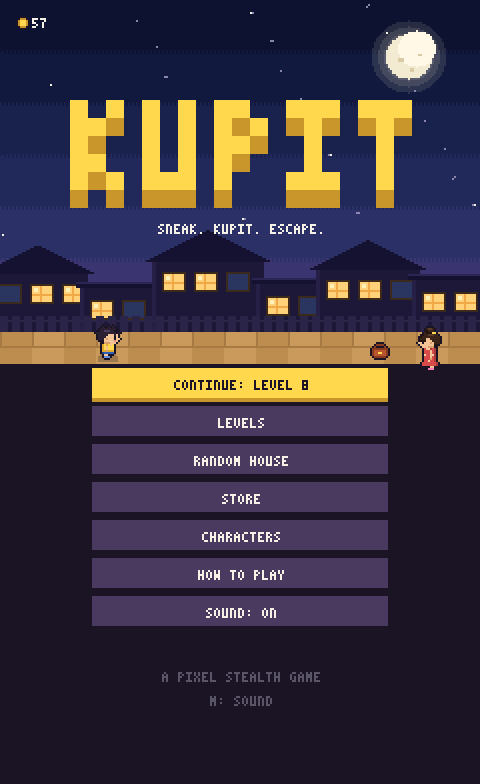
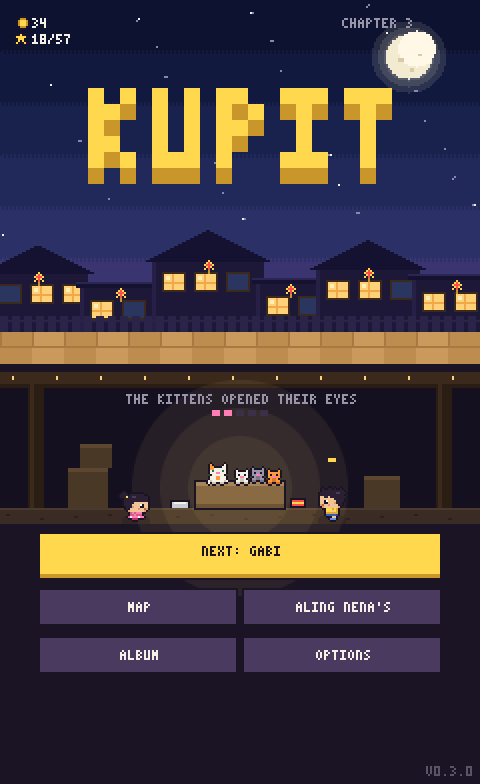
Docs for the arcade pass: README, STATUS, level format, fresh screenshots
- README: new screenshots from the current build (the hideout, the tutorial,
  night, a boss cut-in, the palengke, HABOL!'s hug, the who's-going card, the
  map, a close call); controls describe aimed throws; HINALA, Random House and
  star gifts removed; cut-ins described.
- STATUS: the arcade pass, and v0.3.0 marked as released.
- LEVEL_FORMAT: no "hinala" blocks; boss.intro documented.

diff --git a/README.md b/README.md
@@ -9,11 +9,11 @@ full of kittens, and only then do they see what every coin was for. All he ever 
 | | | |
 |---|---|---|
 | ![Title](docs/screenshots/01-title.png) | ![Sala, the first level](docs/screenshots/04-sala.png) | ![Gabi, a night level](docs/screenshots/05-gabi-night.png) |
-| Title | Sala: Mama and Lola's vision cones | Gabi: night lighting |
-| ![Boss: Mama sa Kusina](docs/screenshots/06-boss-mama.png) | ![Palengke, a big scrolling level](docs/screenshots/07-palengke.png) | ![Random House](docs/screenshots/08-random-house.png) |
-| Boss: Mama sa Kusina | Palengke (scrolling map) | Random House |
-| ![Choose your kid](docs/screenshots/03-characters.png) | ![Level select](docs/screenshots/02-levels.png) | ![Caught!](docs/screenshots/09-caught.png) |
-| Characters | Level select | Caught! |
+| The hideout (title) | Sala: the tutorial, Mama's vision cone | Gabi: night lighting |
+| ![Boss: Mama sa Kusina](docs/screenshots/06-boss-mama.png) | ![Palengke, a big scrolling level](docs/screenshots/07-palengke.png) | ![HABOL!](docs/screenshots/08-habol.png) |
+| Boss: Mama comes in on a cut-in | Palengke (scrolling map) | HABOL!: the hug at the end |
+| ![Who's going?](docs/screenshots/03-card.png) | ![The barangay map](docs/screenshots/02-levels.png) | ![Muntik na!](docs/screenshots/09-close-call.png) |
+| Who's going? | The barangay map | A close call |
 
 ## Play
 
@@ -24,14 +24,14 @@ npm start            # or: python -m http.server 8080
 ```
 
 Open http://localhost:8080 (phone on same LAN works too). If 8080 is taken, `serve` picks another port and prints
-it. `?level=2` jumps to a level, `?daily` to today's Daily House.
+it. `?level=2` jumps to a level. On a tall phone the game fills the whole screen, with the buttons at the bottom.
 
 | Action | Keyboard | Touch |
 |---|---|---|
 | Move (sneak) | WASD / arrows | drag anywhere |
 | Run (loud!) | Shift | drag far |
-| Act: kupit (hold), hide, open/close door, switch, turn on TV/radio | E / Space | big button (its icon shows what it will do) |
-| Throw tsinelas / pandesal: hold to aim, let go to throw | Q | blue button |
+| Act: take coins (hold), hide, open/close a door, a lever, turn on the TV/radio | E / Space | big button (it says what it will do: TAKE, HIDE, OPEN...) |
+| Throw a tsinelas / pandesal where you point | Q, point with the mouse, click (or hold Q and let go: straight ahead) | hold the blue button, slide to the spot, let go (a tap throws straight ahead) |
 | Switch which item you throw | R / Tab | small dot next to it |
 | Character skill | F / X | green button |
 | Pause | P / Esc | pause button |
@@ -42,6 +42,8 @@ Collect the coin quota, then reach the exit.
 - **Adults** have vision cones. Fill their meter and they **chase** you (A* pathing). Break line of sight or hide, and
   they search, then go back. `?` over an adult means suspicious, `!` means chase. On big maps, arrows on the screen
   edge show who is onto you, and pings show noises heard off screen.
+- **Cut-ins**: a character's portrait slides in with a line at the big moments: whoever finds you on a close call,
+  a boss's entrance and each phase, the end of every level, the first TUMBA, and HABOL!'s hug with Tigre.
 - **Muntik na! (close calls)** You get 3 chances per level. When someone reaches you, they find you somewhere you
   shouldn't be (never with the coins: the family only finds out in the story's ending, the one real "HULI KA!").
   Jun drops a third of his coins, which go back where they came from, and you start again at the last safe spot (a
@@ -54,12 +56,6 @@ Collect the coin quota, then reach the exit.
   the quota the game says SAPAT NA ("that's enough"); anything past it is SOBRA. It still pays, but every extra coin
   in one go clinks louder and emptying a stash makes a hollow klak. The "take only what you need" star asks for
   exactly the quota.
-- **Hinala (the house remembers)**: the family's suspicion, 0 to 100, carried across the campaign. Only a level's first
-  clear moves it: sobra, emptied stashes, alarms, close calls and tattles raise it, a clean run lowers it, and putting
-  coins back (IBALIK) lowers it a lot. Each chapter has a floor, so suspicion always grows toward the storm. At its four
-  tiers the house changes (a purse moves, Mama counts it, people search longer, sleepers sleep lightly); the level
-  starts with "NEW IN THE HOUSE", the hideout shows Mama's mood, and the clear screen says what was noticed. They
-  suspect something, never Jun: they only find out in the ending. Rules and level format: `src/game/hinala.js`.
 - **Hide** in boxes, curtains and laundry baskets. An eye over you means someone watched you hide, so they'll find you.
 - **Secret alkansya**: every level hides one bonus stash off the main route.
 - **Bosses** each have a signature rule and finale. Lola's Siesta: a sleep meter that noise drains, then a finale
@@ -67,11 +63,6 @@ Collect the coin quota, then reach the exit.
   pandesal splits them. Ninang's Christmas party: guests are moving cover. Bagyo: the storm.
 - **Late levels** add the tanod (sweeping flashlight, whistle), tinderas (shout MAGNANAKAW!, stay by their stall)
   and a tricycle on a timed route.
-- **Random House**: a seeded generator builds a new multi-room house at difficulty 1–5. Mutators (BROWNOUT, WALANG
-  TSINELAS, BISITA) make it harder and pay more, and clearing them at level 3+ unlocks outfits. Payouts shrink with
-  each house cleared the same day. The **Daily House** is the same for everyone (it rolls over at midnight Manila
-  time). It is easier early in the week and hardest on Sunday, keeps a streak, and has a COPY RESULT share card.
-  During Pasko season it's a Noche Buena house.
 - **The hideout** is the home screen: the space under the house, with Mingming, her kittens and whoever is in on
   the secret. One big button continues the story; MAP opens the barangay map (levels as houses along a road,
   grouped into five chapters).
@@ -81,7 +72,7 @@ Collect the coin quota, then reach the exit.
   Only then do they see what every coin was for, and nobody scolds him. The epilogue level swaps KUPIT for
   **HINGI**: nobody to hide from, you walk up and ask. Three kittens trot after you there, and Tigre follows you
   on every level afterwards.
-- **Who's going?** Before every story level a card shows its stars, what changed in the house, and the crew: pick who
+- **Who's going?** Before every story level a card shows its stars and the crew: pick who
   goes (a level can suggest someone; every level can be finished as Jun). **Bing** also crawls under tables and beds
   (only someone right next to it sees her). **Kuya Ramil** talks the family out of one close call a level ("Ma,
   tinutulungan ko lang siya!"). **KASABWAT** (the old SAMPAYAN) sends Bing and Ramil in together: Z switches kids,
@@ -95,7 +86,7 @@ Collect the coin quota, then reach the exit.
   new trick rather than a bigger number. MEDYAS (socks: creaky boards stay quiet), PANYO (a handkerchief muffles one
   clasp or zipper a level), HOLEN (two marbles a level that roll on and lure, and dogs ignore), BAON (start with a
   tsinelas and a pandesal), BULSA (carry one more). Saves from before the change get back every coin they spent on
-  the old upgrades. Looks-only outfits and decor are there too; star milestones at 10/20/30/48 unlock more.
+  the old upgrades. Looks-only outfits and title-screen decor are sold there too (some are mini-game prizes).
   `node tools/economy.mjs` checks the prices against a careful and a greedy player.
 - **New rules in the story levels**: GATAS: a full bowl of milk must be carried out, and running spills it.
   IBALIK: Jun took too much, so you sneak the coins *back*. BAGYO: lightning, then thunder, and while it rolls
@@ -159,7 +150,7 @@ node tools/place-alkansya.mjs   # suggest secret alkansya spots (--write to add 
 - `src/entities` player, adults (Mama/Lola/Tita), targets
 - `src/render` palette, tiles, sprites (`sprites.js` draws the sheet, with code-drawn placeholders as a fallback)
 - `src/render/atlas.js` the sprite sheet; `tools/blender/` builds, renders and packs it ([docs/ART_PIPELINE.md](docs/ART_PIPELINE.md), [docs/ART_SPEC.md](docs/ART_SPEC.md))
-- `src/game/house.js` seeded Random House generator; `src/game/validate.js` level validator (both tested)
+- `src/game/validate.js` level validator (tested); `src/ui/cutin.js` the portrait cut-ins
 - `src/game/progression.js` characters, upgrades, `computeMods` (tested)
 - `src/game/world.js` all level rules (DOM-free, tested); `src/scenes/play.js` draws it
 - `src/world/sound.js` path-based noise (walls block, doors muffle); `src/world/pathfind.js` heap A*
@@ -186,4 +177,7 @@ node tools/place-alkansya.mjs   # suggest secret alkansya spots (--write to add 
 - [x] Redesign pass (Nov 2026): the caught-then-forgiven ending, redrawn characters (big heads, readable faces,
       Mingming and the kittens, portraits with moods), per-level missions, the thirteen older maps rebuilt
       (cover, loops, routines), fiesta videoke and crowd blending, softer vision cones, a kitten that follows you
+- [x] Arcade pass (Nov 2026): HINALA, the Random/Daily House and the star gifts cut; a 5-button title; English
+      actions; aimed throws (mouse / finger); TUMBANG PRESO fixes; the phone screen (full height, bigger text,
+      buttons at the bottom); cut-ins and HABOL!'s hug
 - [ ] Silent playtest with new players ([docs/PLAYTEST.md](docs/PLAYTEST.md))

diff --git a/docs/LEVEL_FORMAT.md b/docs/LEVEL_FORMAT.md
@@ -4,7 +4,7 @@ One JSON file per level in `src/data/levels/`, listed in order in `index.json`.
 Coordinates are tile `[x, y]` (0,0 = top-left). Maps can be any size (all rows the same width). A 15×22 map fits the screen;
 anything bigger scrolls with a camera that follows the player, and an edge marker points at the next objective.
 `npm test` validates every level (`src/game/validate.js`): widths, placement, adult routes (A*), player solvability with keys/gates,
-and that standing still at the spawn for 4 s is safe. The same validator checks every generated Random House.
+and that standing still at the spawn for 4 s is safe.
 
 ## Tiles
 
@@ -45,10 +45,6 @@ and that standing still at the spawn for 4 s is safe. The same validator checks 
   "suggest": "bing", "suggestWhy": "SMALL IS GOOD HERE", // optional: the kid the pre-level card recommends
   "team": ["bing", "ramil"], "spawn2": [x, y], // optional: tag-team (KASABWAT): two kids, Z switches, both must exit
   "laundryDown": { "every": 25, "floor": ";" },  // optional: the washing is taken in one line at a time, top first
-  "hinala": { "1": { "news": "MAMA COUNTS HER PURSE NOW", "do": [op, op] }, "2": {...}, "3": {...} },
-                               // optional: how the house changes at each HINALA tier (cumulative, max 2 ops per tier,
-                               // news max 40 chars). op: { "move": targetIndex, "to": [x,y] } | { "stop": adultIndex,
-                               // "at": [x,y,wait,face,"bilang"] } | { "adult": adultIndex, "cfg": {...} }. See src/game/hinala.js
   "giveBack": true,            // optional: targets are filled, not emptied (kind "ibalik"); pays stars only
   "hingi": true, "epilogue": true, // optional: every adult is harmless; no stars are recorded
   "clearText": "KITTENS SAFE!", // optional: headline on the clear screen
@@ -76,8 +72,7 @@ and that standing still at the spawn for 4 s is safe. The same validator checks 
 
 ## Missions
 
-Stars are missions (`src/game/missions.js`). `missions` names two; without it a level gets `fast` and `silent`
-(Random Houses do). A star stays earned across runs (`save.missions[id]` is a bit mask, `save.stars[id]` its count).
+Stars are missions (`src/game/missions.js`). `missions` names two; without it a level gets `fast` and `silent`. A star stays earned across runs (`save.missions[id]` is a bit mask, `save.stars[id]` its count).
 
 | Id | Star for | Lost mid-run? |
 |---|---|---|
@@ -136,7 +131,7 @@ Stash noises are not lures: adults in earshot turn to look, and sleepers close b
 | `alkansya` | normal | Optional. Its coins go to the bank, not the quota, and it can be found once per level. |
 
 Letting go keeps your progress: it drains slowly (about 8 s from full), so you can duck out of sight and come back.
-Put the bigger coin values in the riskier spots (Random House does this automatically).
+Put the bigger coin values in the riskier spots.
 
 ## Sound
 
@@ -169,11 +164,12 @@ Add a `boss` block to make a level a boss fight (bosses are just levels; list th
 
 ```jsonc
 "boss": {
-  "title": "LOLA'S SIESTA",   // intro banner
+  "title": "LOLA'S SIESTA",   // the boss's name (the intro cut-in's tag, or a banner without an intro)
+  "intro": { "mood": "happy", "line": "IIDLIP LANG AKO, APO..." }, // the boss slides in on a cut-in (ui/cutin.js); <= 60 chars
   "bonus": 10,                // extra coins the first time it is cleared
   "index": 0,                 // which adult is the boss: her name, cycle/alert bar in the HUD; catches on escape timeout
   "phases": [                 // fire in order once coins >= "at" (must be reachable)
-    { "at": 2, "banner": "LOLA IS A LIGHT SLEEPER!",   // <= 30 chars
+    { "at": 2, "banner": "LOLA IS A LIGHT SLEEPER!",   // <= 30 chars; the boss says it on a cut-in
       "adult": { "index": 0, "cycle": { "on": 9, "off": 7 } },     // retune; null removes a stat; also speed/range/fov/rate/sweep/ranged/route
       "spawn": [ { "type": "mama", "route": [[2,15],[12,15]] } ],  // new adults join
       "open": [[x,y]], "close": [[x,y]],                         // gates (G closed / g open)

diff --git a/STATUS.md b/STATUS.md
@@ -116,7 +116,7 @@ Updated after each phase. See AUDIT.md for the findings and DECISIONS.md for the
 - Read the new ending in `src/data/story.js` (`ENDING`).
 - Play the rebuilt levels by hand, the fiesta and the palengke first: those changed the most.
 
-## Mini-games, first batch — done (2026-11-17, v0.3.0, uncommitted on design-overhaul)
+## Mini-games, first batch — done (2026-11-17, v0.3.0, released to main as af5beca)
 
 - Done: TUMBANG PRESO (bonus, level 6), SI MINGMING NAMAN (level 13), HABOL! (level 15, opens Chapter 4), BAGYO rebuilt with
   TULO (leaks over the kittens' box) and BAHA (flood + sandbags). Rewards per star (coins, photos, looks), the ALBUM screen,
@@ -125,3 +125,24 @@ Updated after each phase. See AUDIT.md for the findings and DECISIONS.md for the
   screenshots of every new moment by `tools/qa/minigame-shots.mjs`.
 - Needs the owner: a playtest on a phone (PRESO aim timing, HABOL! speed, TULO on touch, MINGMING difficulty), and the
   merge to main when happy (version 0.3.0 is already set).
+
+## Arcade pass — done (2026-11-18, on design-overhaul, not released)
+
+The owner asked for a concise arcade game after the v0.3.0 audit. Five commits:
+
+1. Cut: HINALA (suspicion score and every house change it made), Random House and Daily House, the star gifts
+   ("NEXT GIFT AT"; those looks are sold at Aling Nena's). Title menu 8 -> 5 buttons (HOW TO PLAY moved into Options,
+   THE CREW screen removed: the card picks the kid). Shorter clear screen. Every action, skill and setting in English.
+   Save v7.
+2. TUMBANG PRESO: your own slippers get a ring and an arrow; friends run for theirs after every TUMBA.
+3. Aimed throws: Q + mouse + click (hold Q still works), and on a phone drag from the throw button to the spot.
+4. The phone screen: a tall phone fills the screen with the buttons at the bottom; the top bar, tips and the tutorial
+   coach sit above the map instead of on it; the 5x7 font for the top bar, tips, toasts, coach and missions. Fixed the
+   keyboard hints shown on phones before the first touch.
+5. Cut-ins (ui/cutin.js) for close calls, bosses and their phases, every level's end, the first TUMBA and HABOL!'s
+   end, which is now a hug (a new `jun|0|hug` frame in the sheet).
+
+- Checks: `npm test` 288/288 (`tests/arcade.test.mjs` is new); smoke and ending QA pass in headless Chrome (run from
+  the files with request interception, since a local server was not allowed this session); the real mouse, keyboard
+  and touch throws checked in the browser at phone and desktop sizes.
+- Needs the owner: a playtest on a phone, and the release to main when happy (bump the version to 0.4.0 first).
